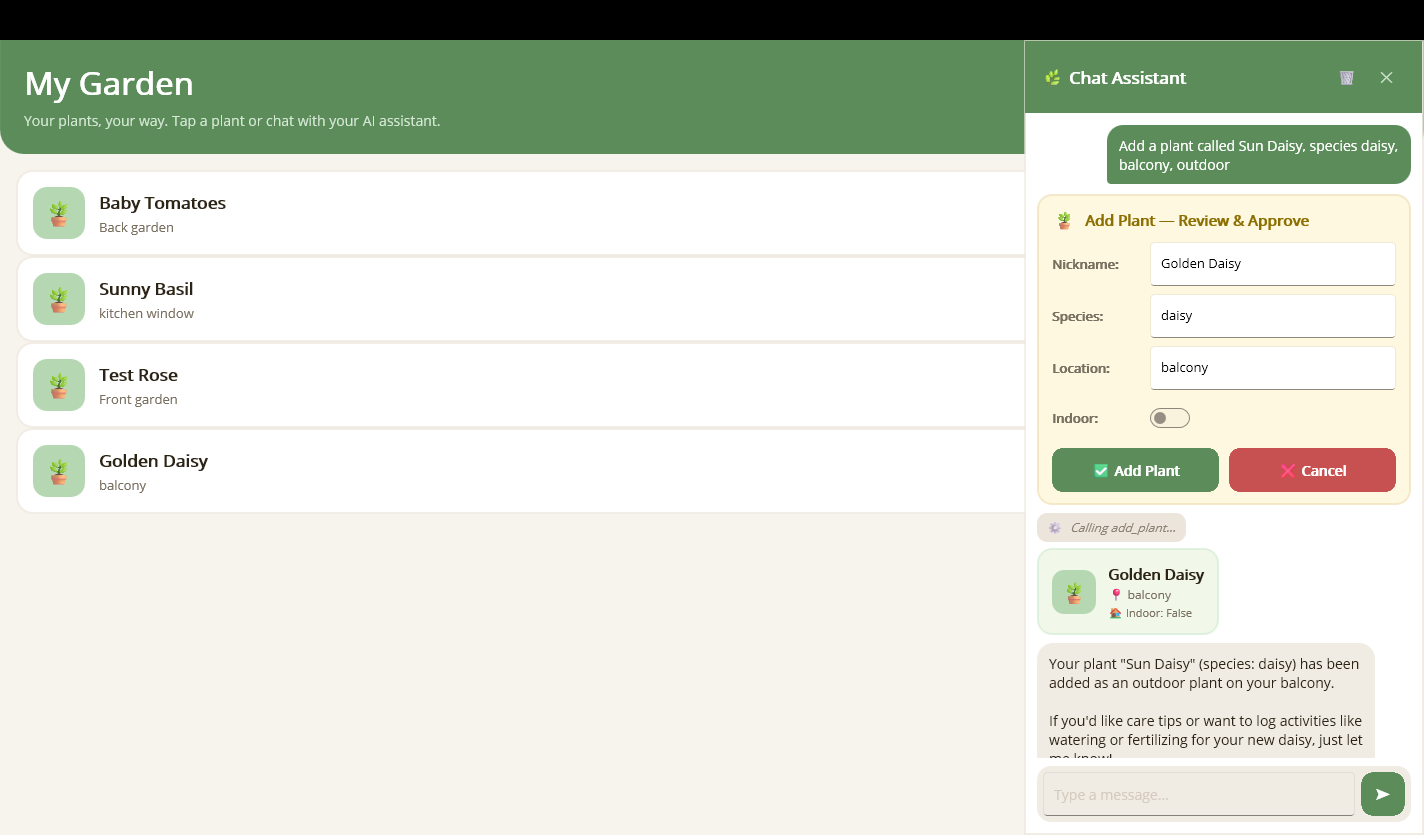
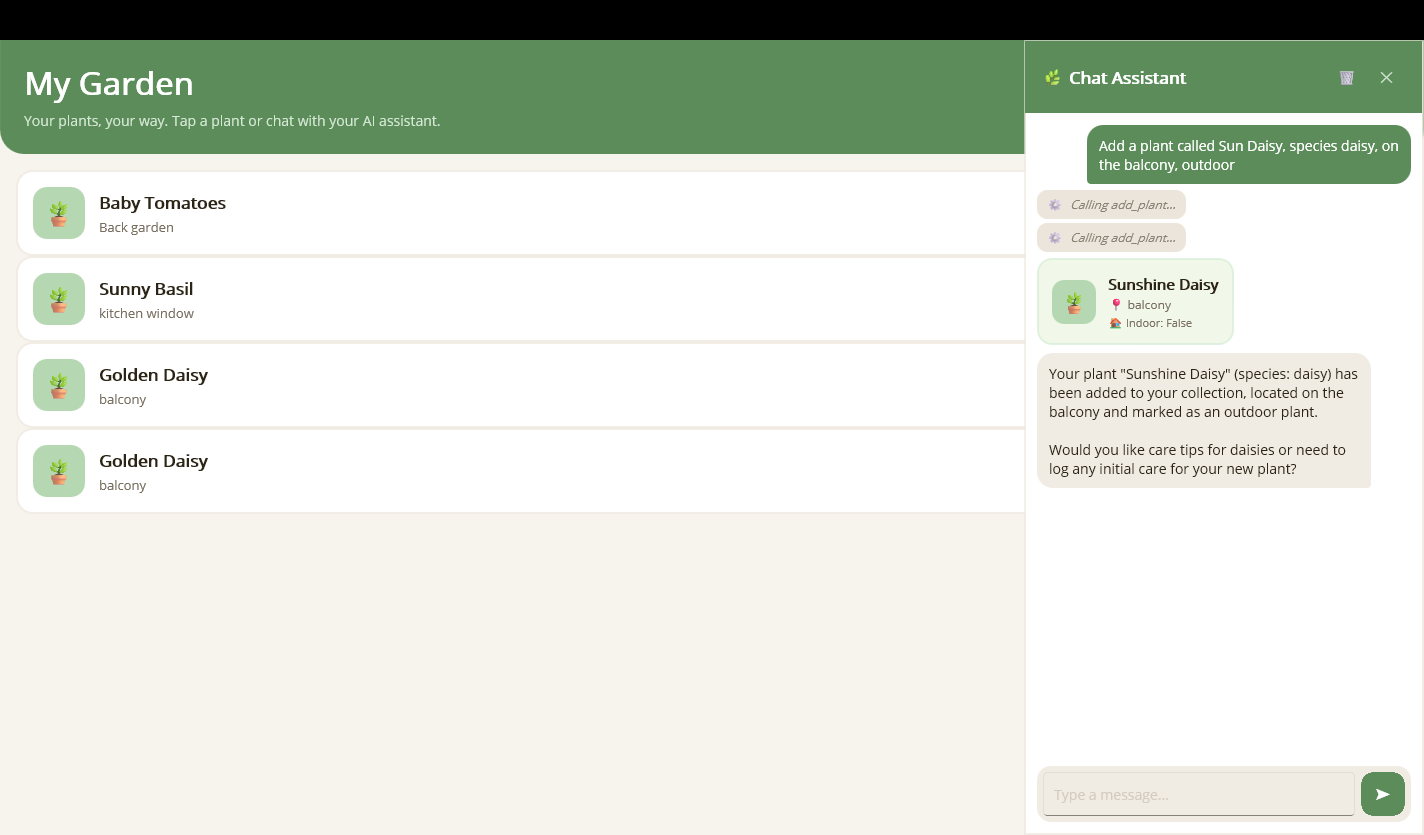
Replace approval card with tool call on response, update docs screenshots
ChatViewModel.RespondToApproval:
- On approve: remove approval ContentContext from Messages, insert new
  ContentContext with FunctionCallContent (triggers correct template)
- On reject: replace with '❌ tool_name — rejected by user' text note
- Uses RemoveAt/Insert instead of Content swap (CollectionView doesn't
  re-evaluate DataTemplateSelector on property change)

Docs:
- Step 2 now uses approval-generic.png (generic ToolApprovalView for remove_plant)
- Step 3 shows approval-request.png (custom PlantApprovalView with editable fields)
- Updated descriptions to explain card replacement behavior
- Recaptured all approval screenshots with card replacement working

Changed region(s): [[0.7107, 0.1557, 1.0, 0.9341], [0.0618, 0.4359, 0.1545, 0.4982]]

diff --git a/src/MauiAIAnnotations.Maui/ViewModels/ChatViewModel.cs b/src/MauiAIAnnotations.Maui/ViewModels/ChatViewModel.cs
@@ -58,25 +58,55 @@ public partial class ChatViewModel : ObservableObject
     public void RespondToApproval(ToolApprovalRequestContent request, bool approved, IDictionary<string, object?>? modifiedArguments = null)
     {
         ToolApprovalResponseContent response;
+        FunctionCallContent? resolvedCall = null;
+
         if (approved && modifiedArguments is not null && request.ToolCall is FunctionCallContent originalCall)
         {
-            // Create a new FunctionCallContent with modified arguments
-            var modifiedCall = new FunctionCallContent(originalCall.CallId, originalCall.Name, modifiedArguments);
-            response = new ToolApprovalResponseContent(request.RequestId, true, modifiedCall);
+            resolvedCall = new FunctionCallContent(originalCall.CallId, originalCall.Name, modifiedArguments);
+            response = new ToolApprovalResponseContent(request.RequestId, true, resolvedCall);
         }
         else
         {
+            resolvedCall = request.ToolCall as FunctionCallContent;
             response = request.CreateResponse(approved, approved ? null : "User rejected");
         }
 
-        // Collect the response
+        // Replace the approval card in Messages with the resolved tool call (or rejection note)
+        var approvalIdx = -1;
+        for (int i = 0; i < Messages.Count; i++)
+        {
+            if (ReferenceEquals(Messages[i].Content, request))
+            {
+                approvalIdx = i;
+                break;
+            }
+        }
+
+        if (approvalIdx >= 0)
+        {
+            if (approved && resolvedCall is not null)
+            {
+                // Remove approval card and insert a normal function call bubble in its place
+                Messages.RemoveAt(approvalIdx);
+                Messages.Insert(approvalIdx, new ContentContext(resolvedCall, "Tool"));
+            }
+            else
+            {
+                // On rejection, replace with a text note
+                Messages.RemoveAt(approvalIdx);
+                Messages.Insert(approvalIdx, new ContentContext(
+                    new TextContent($"❌ {(request.ToolCall is FunctionCallContent fc ? fc.Name : "Tool")} — rejected by user"),
+                    "Assistant"));
+            }
+        }
+
+        // Collect the response and signal the waiting loop
         if (_approvalTcs is not null)
         {
-            // Find and complete the pending approval batch
             var responses = new List<ToolApprovalResponseContent>();
             foreach (var pending in _pendingApprovals)
             {
-                if (pending == request)
+                if (ReferenceEquals(pending, request))
                     responses.Add(response);
                 else
                     responses.Add(pending.CreateResponse(true)); // Auto-approve others in batch

diff --git a/docs/human-in-the-loop.md b/docs/human-in-the-loop.md
@@ -54,7 +54,7 @@ it as a chat item template so the chat UI knows how to render approval requests:
 This displays a card with the tool name, a read-only summary of the arguments, and
 **Approve** / **Reject** buttons.
 
-![Approval Request](images/approval-request.png)
+![Generic Approval Card](images/approval-generic.png)
 
 ## Step 3: (Optional) Create a Custom Approval View
 
@@ -163,18 +163,23 @@ Order matters — more specific mappings must come first:
 <mauiChat:ToolApprovalMapping ViewType="{x:Type mauiChat:ToolApprovalView}" />
 ```
 
+The custom approval view shows editable fields for the plant data:
+
+![Custom Approval Card](images/approval-request.png)
+
 ## After Approval
 
-When the user edits arguments and taps **Approve**, the modified values are forwarded
-to the tool. In the screenshot below the user changed *"Sun Daisy"* to
-*"Golden Daisy"* before approving — the tool received the updated name.
+When the user edits arguments and taps **Approve**, the approval card is replaced
+with a normal function call bubble and the tool executes with the modified values.
+In the screenshot below the user changed *"Sun Daisy"* to
+*"Sunshine Daisy"* before approving — the tool received the updated name.
 
 ![After Approval](images/approval-approved.png)
 
 ## After Rejection
 
-When the user taps **Reject**, the tool is **not** invoked. The AI receives a
-rejection signal and acknowledges it in the conversation.
+When the user taps **Reject**, the approval card is replaced with a
+"❌ tool_name — rejected by user" note and the tool is **not** invoked.
 
 ![After Rejection](images/approval-rejected.png)
 
